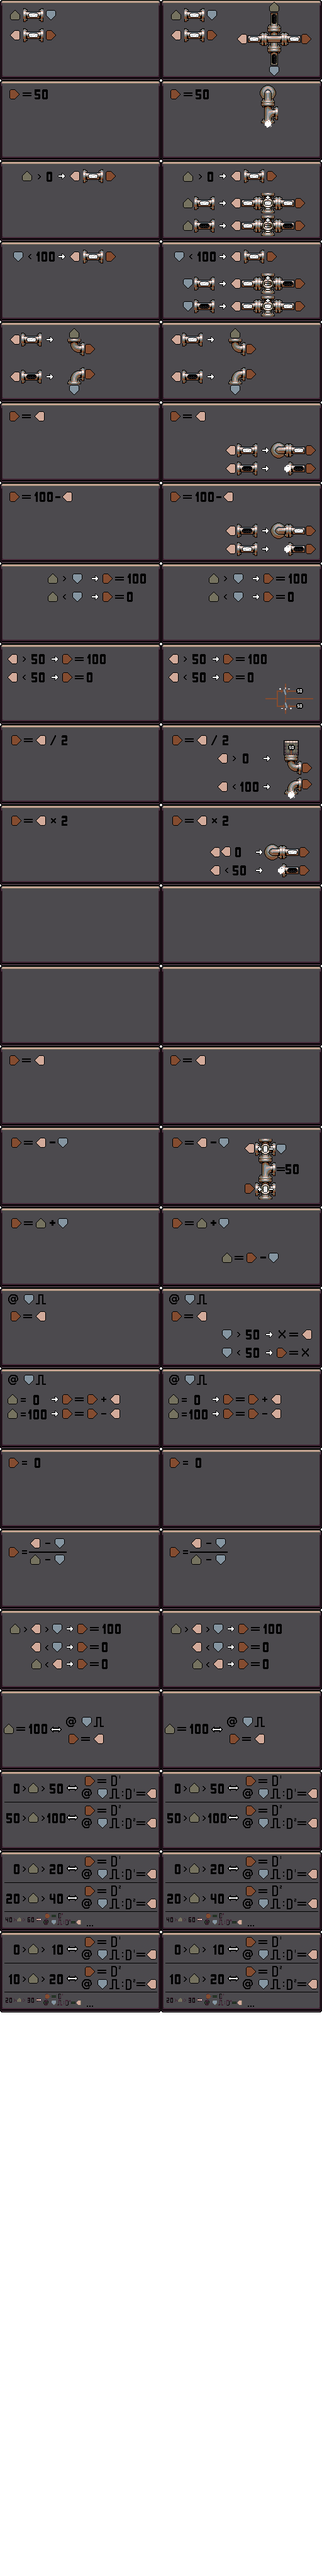
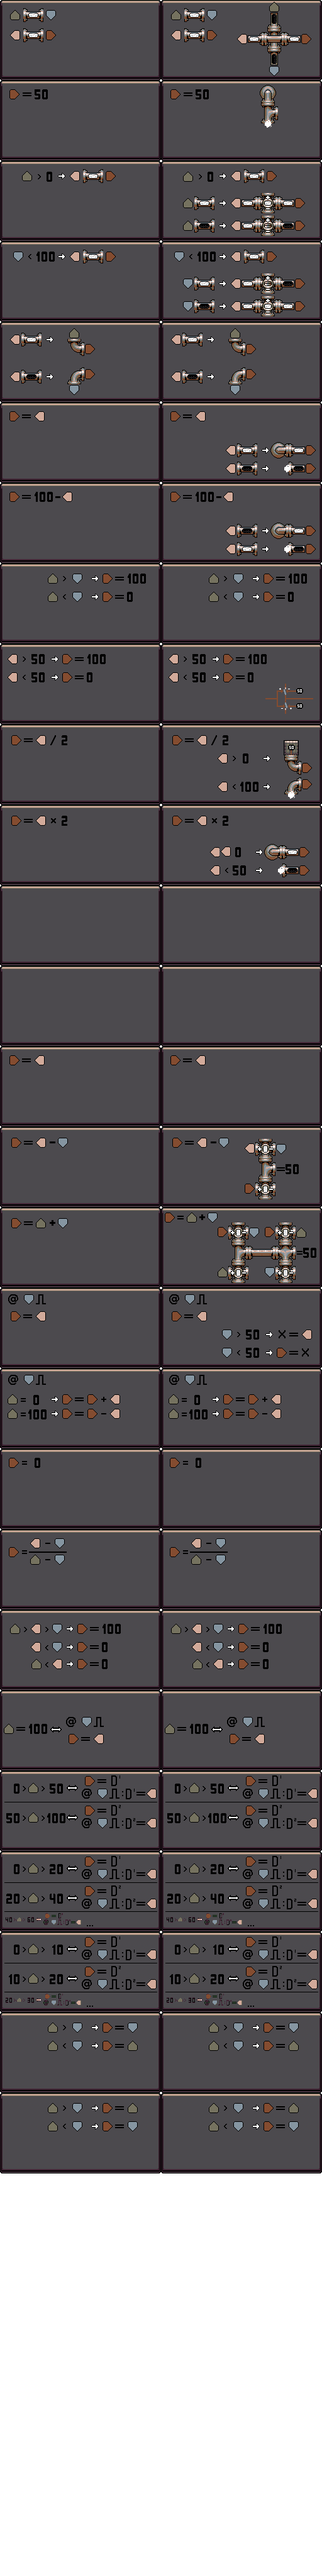
Level cleanup

Changed region(s): [[0.0, 0.7812, 1.0, 0.8438], [0.5938, 0.4688, 0.9688, 0.5], [0.5312, 0.4688, 0.5625, 0.5]]

diff --git a/Level.cpp b/Level.cpp
@@ -548,8 +548,8 @@ void Level::init_tests(SaveObjectMap* omap)
         case 11:                                                        // Encrypt
             name = "Encrypt";
             connection_mask = CONMASK_W | CONMASK_E;
-            level_version = 20;
-            
+            level_version = 21;
+            substep_count = 2000;
             circuit->force_element(XYPos(0,1), new CircuitElementEmpty());
             circuit->force_element(XYPos(1,1), new CircuitElementEmpty());
             circuit->force_element(XYPos(2,1), new CircuitElementEmpty());
@@ -1199,7 +1199,7 @@ void Level::init_tests(SaveObjectMap* omap)
             NEW_POINT( 95, 40,  0, 10);
             break;
         case 25:
-            name = "MIN";
+            name = "Min";
             connection_mask = CONMASK_N | CONMASK_S | CONMASK_E;
             level_version = 20;
 
@@ -1235,7 +1235,7 @@ void Level::init_tests(SaveObjectMap* omap)
             NEW_POINT( 60, 60, 80,  0);
             break;
         case 26:
-            name = "MAX";
+            name = "Max";
             connection_mask = CONMASK_N | CONMASK_S | CONMASK_E;
             level_version = 20;
 
@@ -1273,10 +1273,39 @@ void Level::init_tests(SaveObjectMap* omap)
 
 
         case 27:                                                    // end
-            name = "Not yet done...";
-            connection_mask = CONMASK_W | CONMASK_E;
-            NEW_TEST;// N   E   S   W
-            NEW_POINT(  77,  77,  77, 77);
+            name = "Toggle3";
+            connection_mask = CONMASK_N | CONMASK_W | CONMASK_S | CONMASK_E;
+            NEW_TEST; tests.back().tested_direction = DIRECTION_W;
+                     // N   E   S   W  
+            NEW_POINT(  0,  0,  0,100);
+            NEW_TEST; tests.back().tested_direction = DIRECTION_N;
+            NEW_POINT(  0,  0,  0,100);
+            NEW_TEST; tests.back().tested_direction = DIRECTION_E;
+            NEW_POINT(  0,  0,  0,100);
+            NEW_TEST; tests.back().tested_direction = DIRECTION_W;
+            NEW_POINT(  0,  0,100,100);
+            NEW_POINT(100,  0,  0,  0);
+            NEW_TEST; tests.back().tested_direction = DIRECTION_N;
+            NEW_POINT(100,  0,  0,  0);
+            NEW_TEST; tests.back().tested_direction = DIRECTION_E;
+            NEW_POINT(100,  0,  0,  0);
+
+            NEW_TEST; tests.back().tested_direction = DIRECTION_W;
+            NEW_POINT(100,  0,100,  0);
+            NEW_POINT(  0,100,  0,  0);
+            NEW_TEST; tests.back().tested_direction = DIRECTION_N;
+            NEW_POINT(  0,100,  0,  0);
+            NEW_TEST; tests.back().tested_direction = DIRECTION_E;
+            NEW_POINT(  0,100,  0,  0);
+
+            NEW_TEST; tests.back().tested_direction = DIRECTION_W;
+            NEW_POINT(  0,100,100,  0);
+            NEW_POINT(  0,  0,  0,100);
+            NEW_TEST; tests.back().tested_direction = DIRECTION_N;
+            NEW_POINT(  0,  0,  0,100);
+            NEW_TEST; tests.back().tested_direction = DIRECTION_E;
+            NEW_POINT(  0,  0,  0,100);
+
             break;
 
         case LEVEL_COUNT:                                            // end

diff --git a/GameState.cpp b/GameState.cpp
@@ -1489,7 +1489,16 @@ void GameState::render()
                 src_rect.x = 368;
             SDL_Rect dst_rect = {panel_offset.x + (16 + i * 16) * scale, panel_offset.y + (32 + 8) * scale, 16 * scale, 16 * scale};
             render_texture(src_rect, dst_rect);
-            render_number_2digit(XYPos(panel_offset.x + (16 + i * 16 + 3) * scale, panel_offset.y + (32 + 8 + 5) * scale), pressure_as_percent(current_level->tests[i].last_score));
+            if (pressure_as_percent(current_level->tests[i].last_score))
+            {
+                render_number_2digit(XYPos(panel_offset.x + (16 + i * 16 + 3) * scale, panel_offset.y + (32 + 8 + 5) * scale), pressure_as_percent(current_level->tests[i].last_score));
+            }
+            else
+            {
+                src_rect = {54, 160, 10, 5};
+                dst_rect = {panel_offset.x + (16 + i * 16 + 2) * scale, panel_offset.y + (32 + 8 + 5) * scale, 10 * scale, 5 * scale};
+                render_texture(src_rect, dst_rect);
+            }
             render_number_2digit(XYPos(panel_offset.x + (16 + i * 16 + 3) * scale, panel_offset.y + (32 + 8 + 16 + 5) * scale), pressure_as_percent(current_level->tests[i].best_score));
         }
         

diff --git a/GameState.h b/GameState.h
@@ -183,6 +183,7 @@ public:
     XYPos get_text_size(std::string& text);
     void render_texture(SDL_Rect& src_rect, SDL_Rect& dst_rect);
     void render_texture_custom(SDL_Texture* texture, SDL_Rect& src_rect, SDL_Rect& dst_rect);
+    void render_number_2digit_err(XYPos pos, unsigned value, unsigned scale_mul = 1, unsigned bg_colour = 9, unsigned fg_colour = 0);
     void render_number_2digit(XYPos pos, unsigned value, unsigned scale_mul = 1, unsigned bg_colour = 9, unsigned fg_colour = 0);
     void render_number_pressure(XYPos pos, Pressure value, unsigned scale_mul = 1, unsigned bg_colour = 9, unsigned fg_colour = 0);
     void render_number_long(XYPos pos, unsigned value, unsigned scale_mul = 1);
